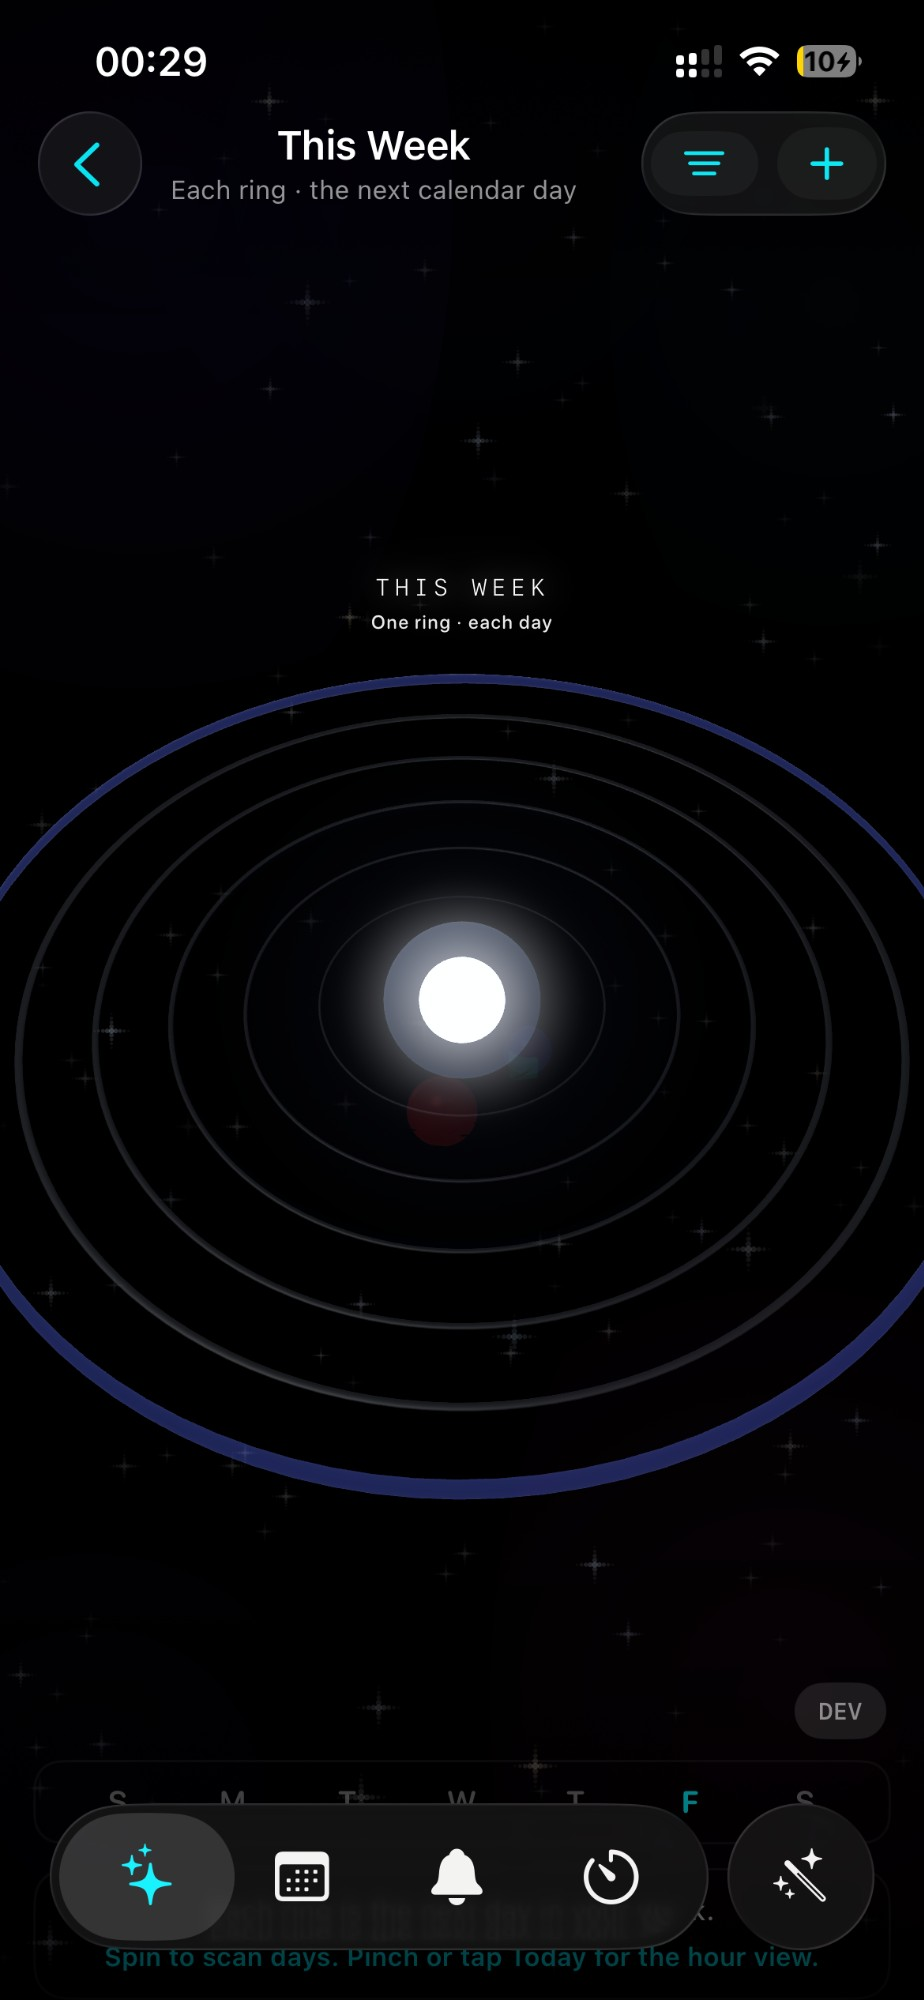
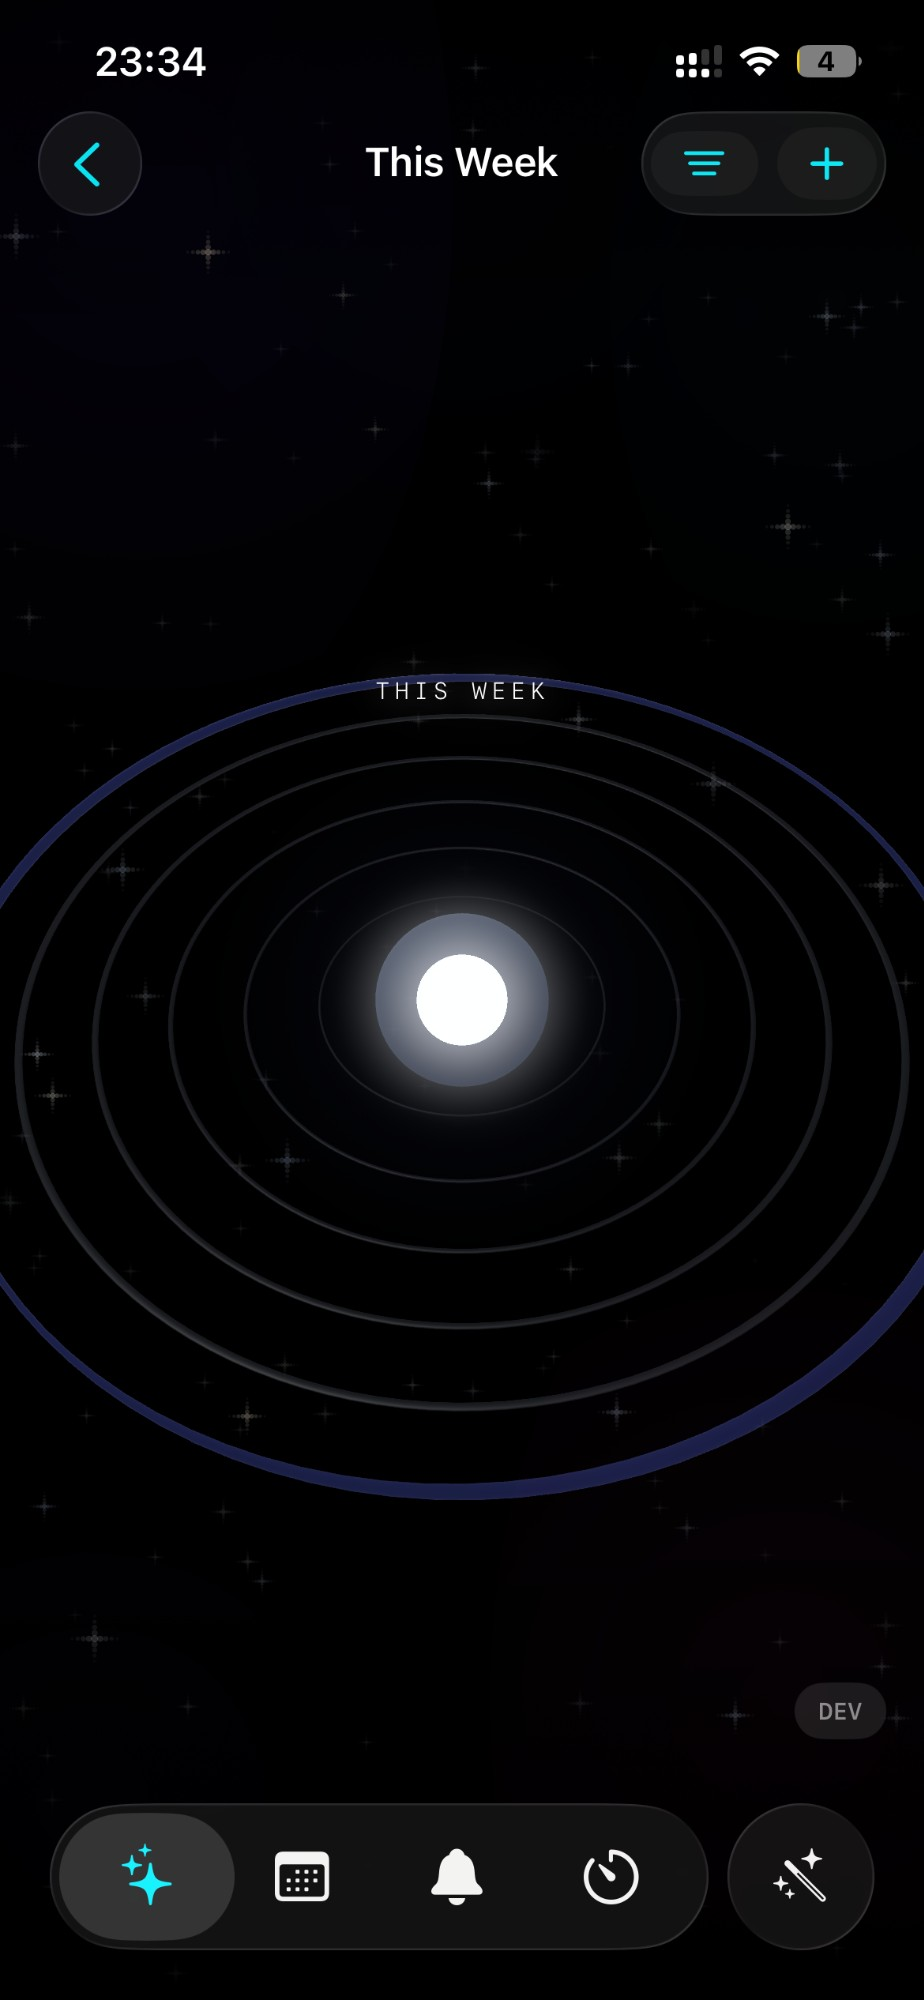
Update orbit screenshots and add orbit-all view
- Replace orbit-week.jpg with new clean This Week rings view
- Replace orbit-day.jpg with new Thursday 16 April colored spheres view
- Add orbit-all.jpg (April 2026 THIS MONTH/THIS WEEK/TODAY concentric view)
- Update blast email template to include orbit-all below the week/day pair
- Update both update-1 and update-1-tr web pages with the same layout

diff --git a/src/app/email/update-1-tr/page.tsx b/src/app/email/update-1-tr/page.tsx
@@ -69,11 +69,16 @@ export default function TurkishUpdatePage() {
             çalışıyorum. Yine burada da çok bunaltıcı olmamak önemli.
           </p>
 
-          <div style={{ display: "flex", gap: 12, marginBottom: 24 }}>
+          <div style={{ display: "flex", gap: 12, marginBottom: 16 }}>
             <img src={`${BASE}/email/orbit-week.jpg`} alt="Bu hafta görünümü"
               style={{ width: "50%", borderRadius: 18 }} />
             <img src={`${BASE}/email/orbit-day.jpg`} alt="Bugün görünümü"
               style={{ width: "50%", borderRadius: 18 }} />
+          </div>
+
+          <div style={{ textAlign: "center", marginBottom: 24 }}>
+            <img src={`${BASE}/email/orbit-all.jpg`} alt="Nisan 2026 görünümü"
+              style={{ maxWidth: 280, width: "100%", borderRadius: 22 }} />
           </div>
 
           <p style={P}>

diff --git a/src/app/email/update-1/page.tsx b/src/app/email/update-1/page.tsx
@@ -46,11 +46,16 @@ export default function EnglishUpdatePage() {
             Working on visual communication — someone should understand it intuitively on first look.
           </p>
 
-          <div style={{ display: "flex", gap: 12, marginBottom: 24 }}>
+          <div style={{ display: "flex", gap: 12, marginBottom: 16 }}>
             <img src={`${BASE}/email/orbit-week.jpg`} alt="This Week"
               style={{ width: "50%", borderRadius: 18 }} />
             <img src={`${BASE}/email/orbit-day.jpg`} alt="Today"
               style={{ width: "50%", borderRadius: 18 }} />
+          </div>
+
+          <div style={{ textAlign: "center", marginBottom: 24 }}>
+            <img src={`${BASE}/email/orbit-all.jpg`} alt="April 2026"
+              style={{ maxWidth: 280, width: "100%", borderRadius: 22 }} />
           </div>
 
           <p style={P}>

diff --git a/src/app/api/v2/blast/template.ts b/src/app/api/v2/blast/template.ts
@@ -11,6 +11,7 @@ const IMG = {
   reminders:      `${BASE}/email/reminders.jpg`,
   orbitWeek:      `${BASE}/email/orbit-week.jpg`,
   orbitDay:       `${BASE}/email/orbit-day.jpg`,
+  orbitAll:       `${BASE}/email/orbit-all.jpg`,
   videoThumb:     `${BASE}/email/video-thumb.jpg`,
 };
 
@@ -93,6 +94,8 @@ export function buildBlastEmail(params: { unsubUrl: string }): { html: string; t
     { src: IMG.orbitWeek, alt: "This Week orbital view" },
     { src: IMG.orbitDay,  alt: "Today orbital view" }
   )}
+
+  ${screenshot(IMG.orbitAll, "April 2026 orbital view")}
 
   <p style="${P}">
     Also: grounding everything in ADHD science matters a lot to me. I've been reading
